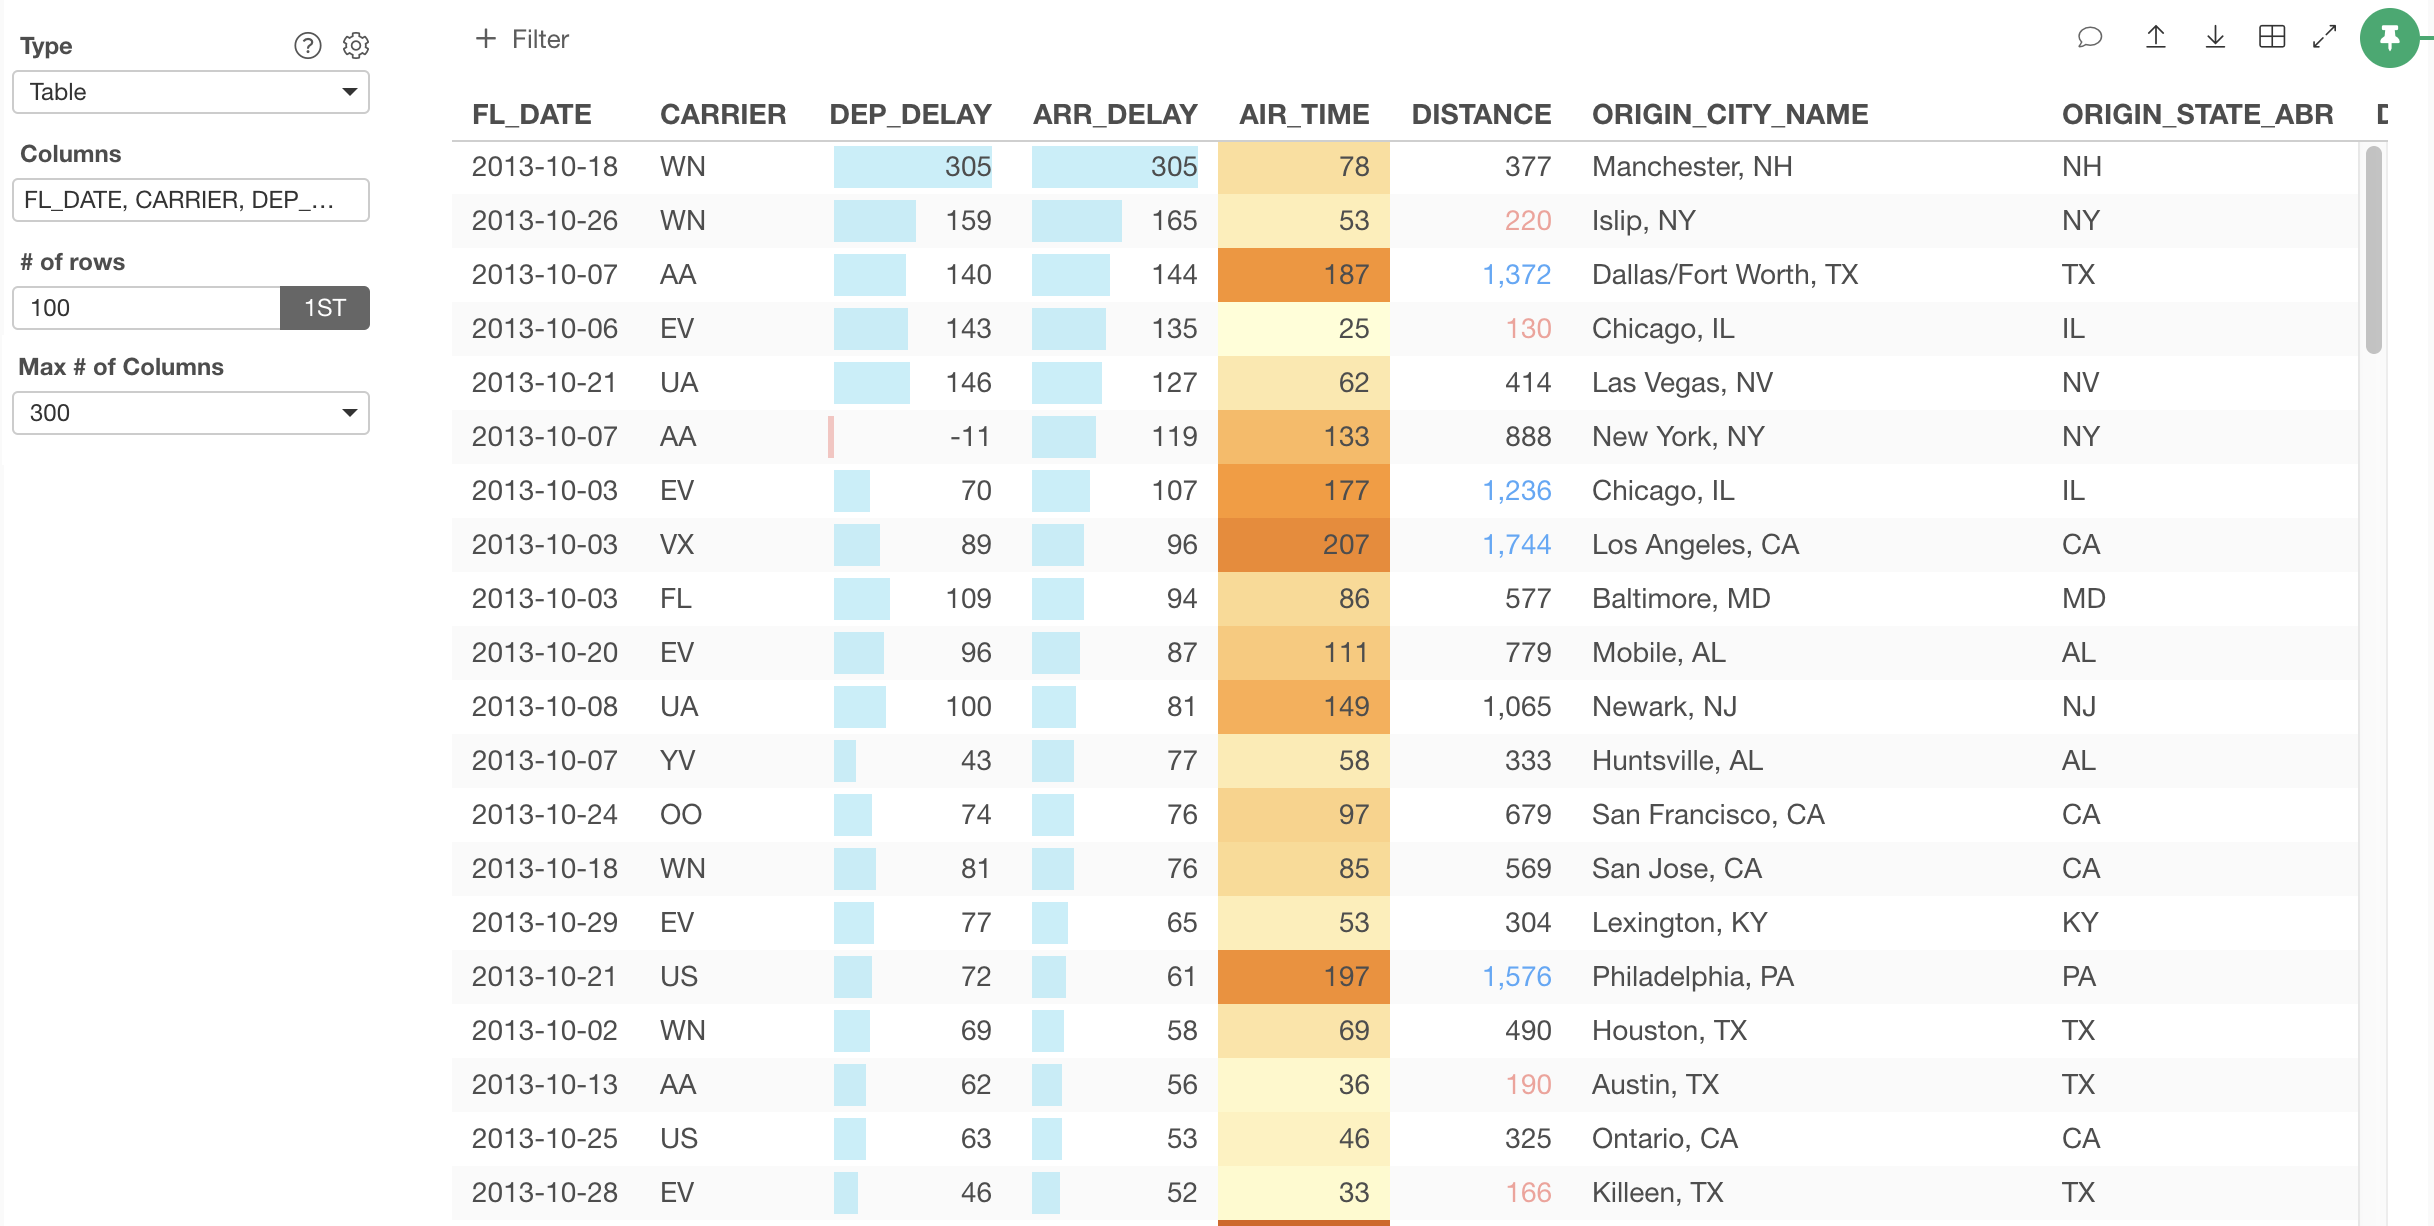
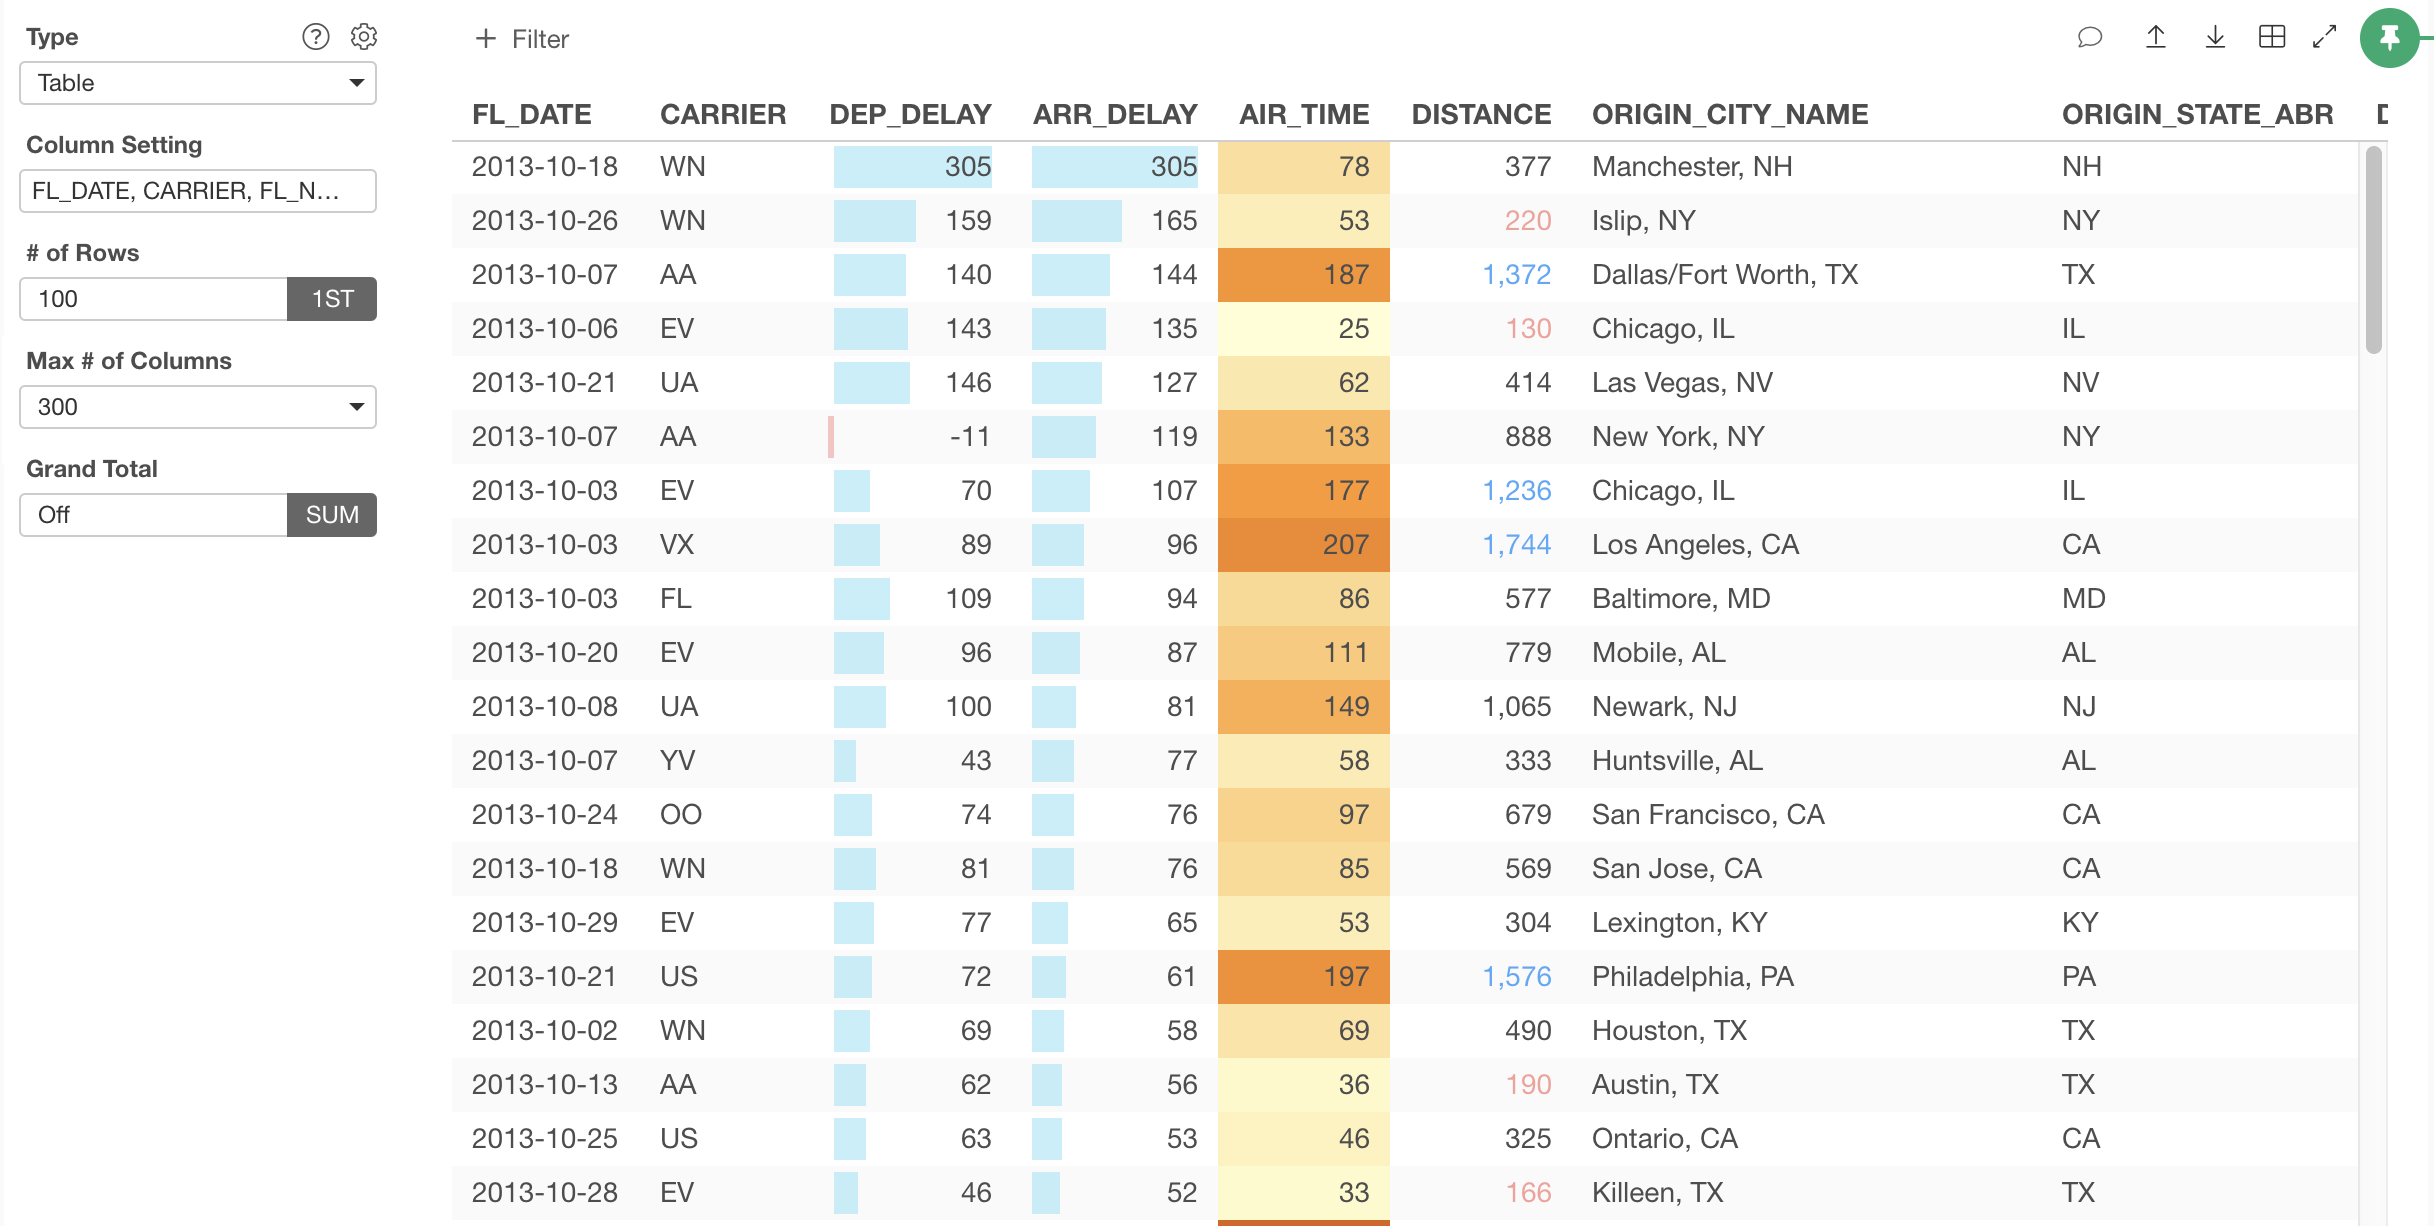
Add grand total option in table.

Changed region(s): [[0.0, 0.0, 0.1561, 0.4339], [0.0937, 0.4029, 0.1561, 0.4649]]

diff --git a/viz/table.md b/viz/table.md
@@ -8,11 +8,15 @@ You can view the raw data quickly with Table.
 ## Assignments
 * Columns - You can select which columns to show in the table. See [Column Configuration](column-configuration.md) for detail.  
 * Number of Rows - You can select how many rows to show at the "# of Rows" control. You can also change either by showing the first rows or last rows in the data frame. 
-
-
 * Max # of Columns - You can select how many columns to show at the "Max # of Columns" control. You can choose either "300", "1,000" or "10,000". Note that if you have many columns and choose a large number here, it may slow down the table rendering. 
-
-
+* Grand Total - You can select to show or hide the grand totals. You can also choose the aggregation function for the total values. The following options are available. 
+  * Sum 
+  * Mean (Average)
+  * Median
+  * Mode (Most Frequent)
+  * Min Value
+  * Max Value
+  * Unique Count
 
 ## Formatting Columns
 
